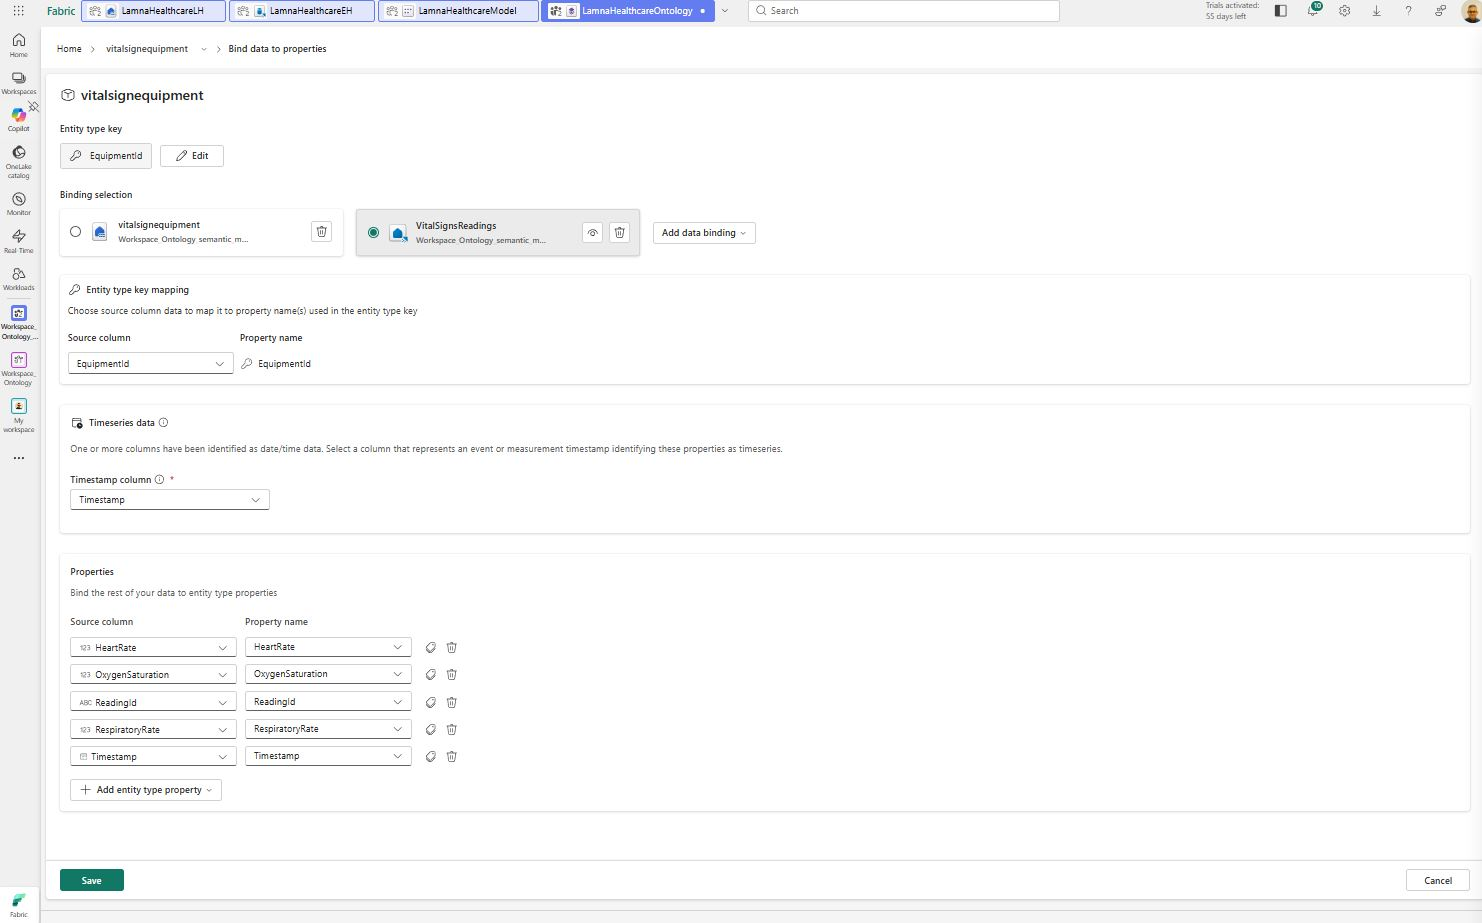
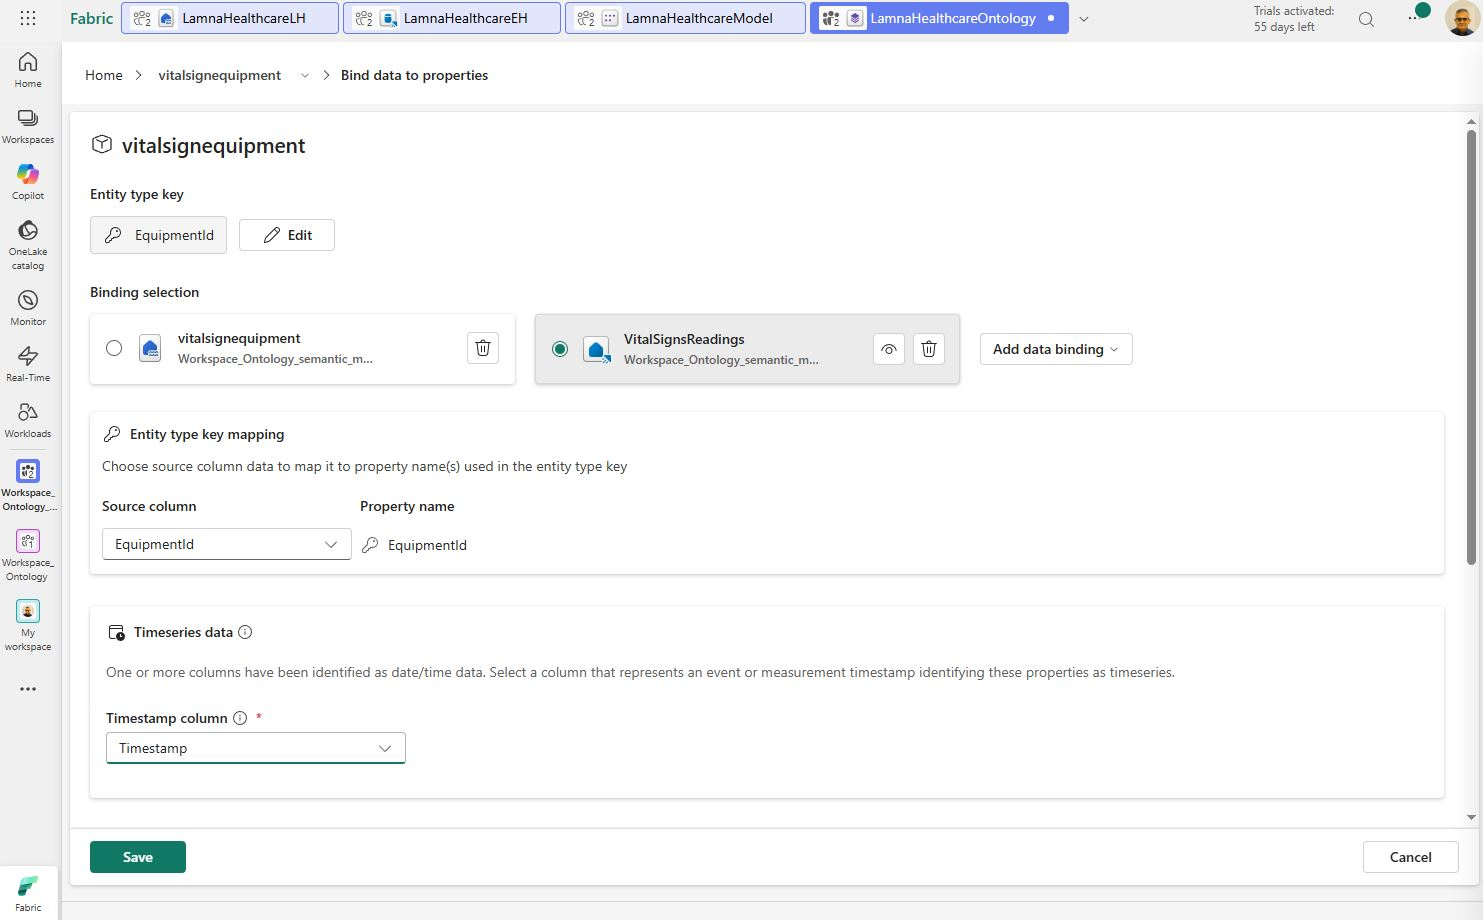
Lab_4-3B

diff --git a/DP-600T00-A_Implementación_soluciones_analíticas_usando_Microsoft_Fabric/DP-600_Lab/Lab_4-3B_Build_an_ontology_from_a_semantic_model_in_Fabric_IQ/DP-600_Lab_4-3B_Build_an_ontology_from_a_semantic_model_in_Fabric_IQ.md b/DP-600T00-A_Implementación_soluciones_analíticas_usando_Microsoft_Fabric/DP-600_Lab/Lab_4-3B_Build_an_ontology_from_a_semantic_model_in_Fabric_IQ/DP-600_Lab_4-3B_Build_an_ontology_from_a_semantic_model_in_Fabric_IQ.md
@@ -359,9 +359,9 @@ The VitalSignEquipment entity currently has only static properties from the lake
 
 Your configuration should look like this:
 
-![081_time_series_binding_0](images/081_time_series_binding_0.JPG)
-
 ![081_10_time_series_binding_0](images/081_10_time_series_binding_0.JPG)
+
+![081_11_time_series_binding_0](images/081_11_time_series_binding_0.JPG)
 
 <br>
 
